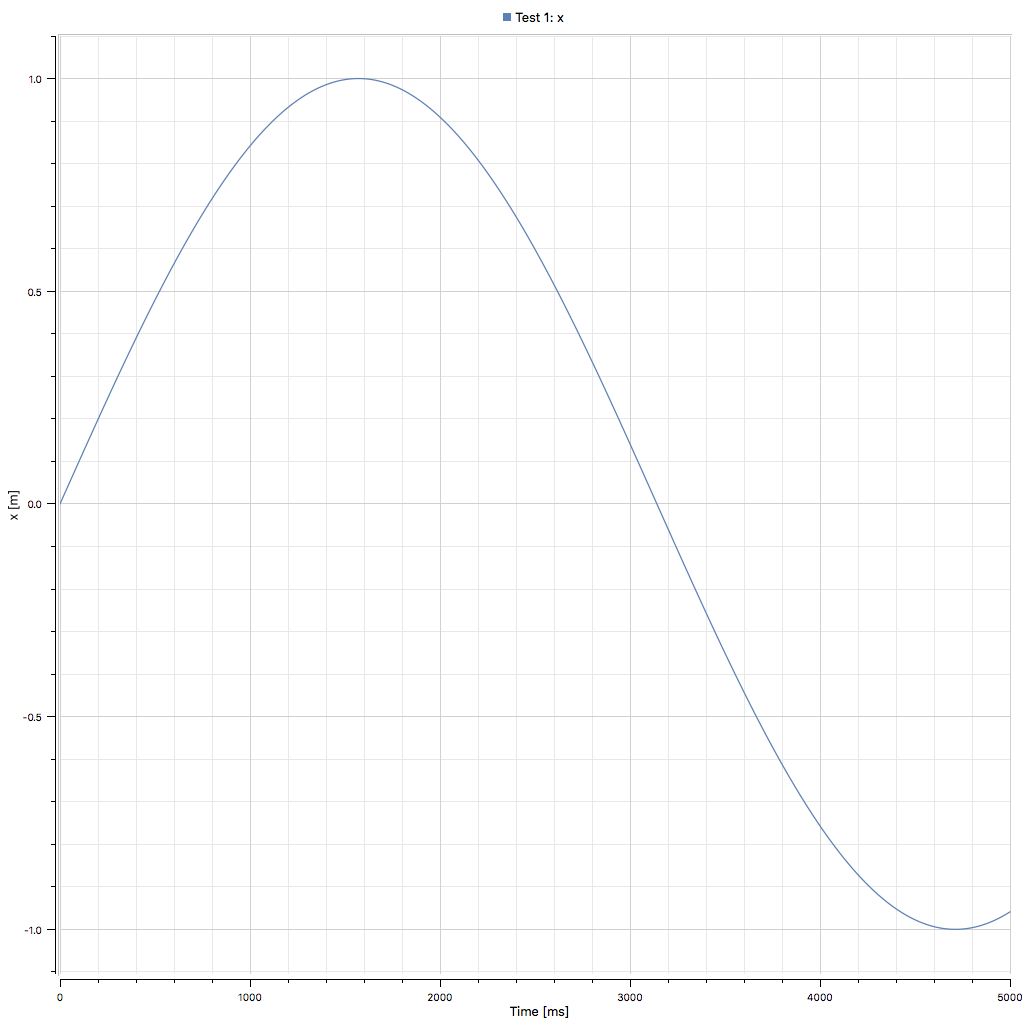
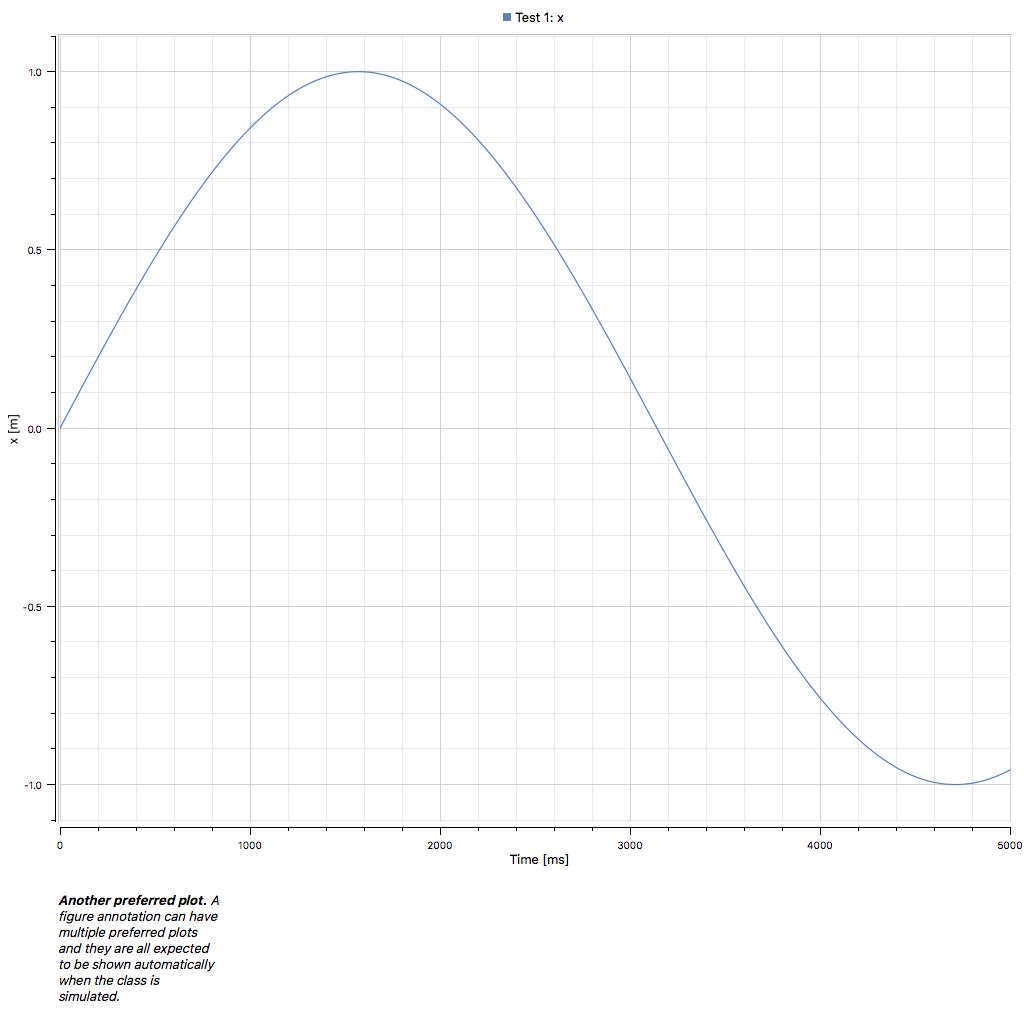
Fixes #1, clarify that there can be multiple preferred plots

diff --git a/SystemModeler/README.md b/SystemModeler/README.md
@@ -10,7 +10,7 @@ end Test;
 ---
 ```
 Figure(
-    title="",
+    title="Figure with no group",
     identifier="4afa9",
     plots={
         Plot(curves={Curve(y=x)})})
@@ -151,6 +151,7 @@ Figure(
     identifier="c52eb",
     preferred=true,
     plots={
-        Plot(curves={Curve(y=x)})})
+        Plot(curves={Curve(y=x)})},
+    caption="A figure annotation can have multiple preferred plots and they are all expected to be shown automatically when the class is simulated.")
 ```
 <img src="c52eb.png" alt="Figure" width=300 />
